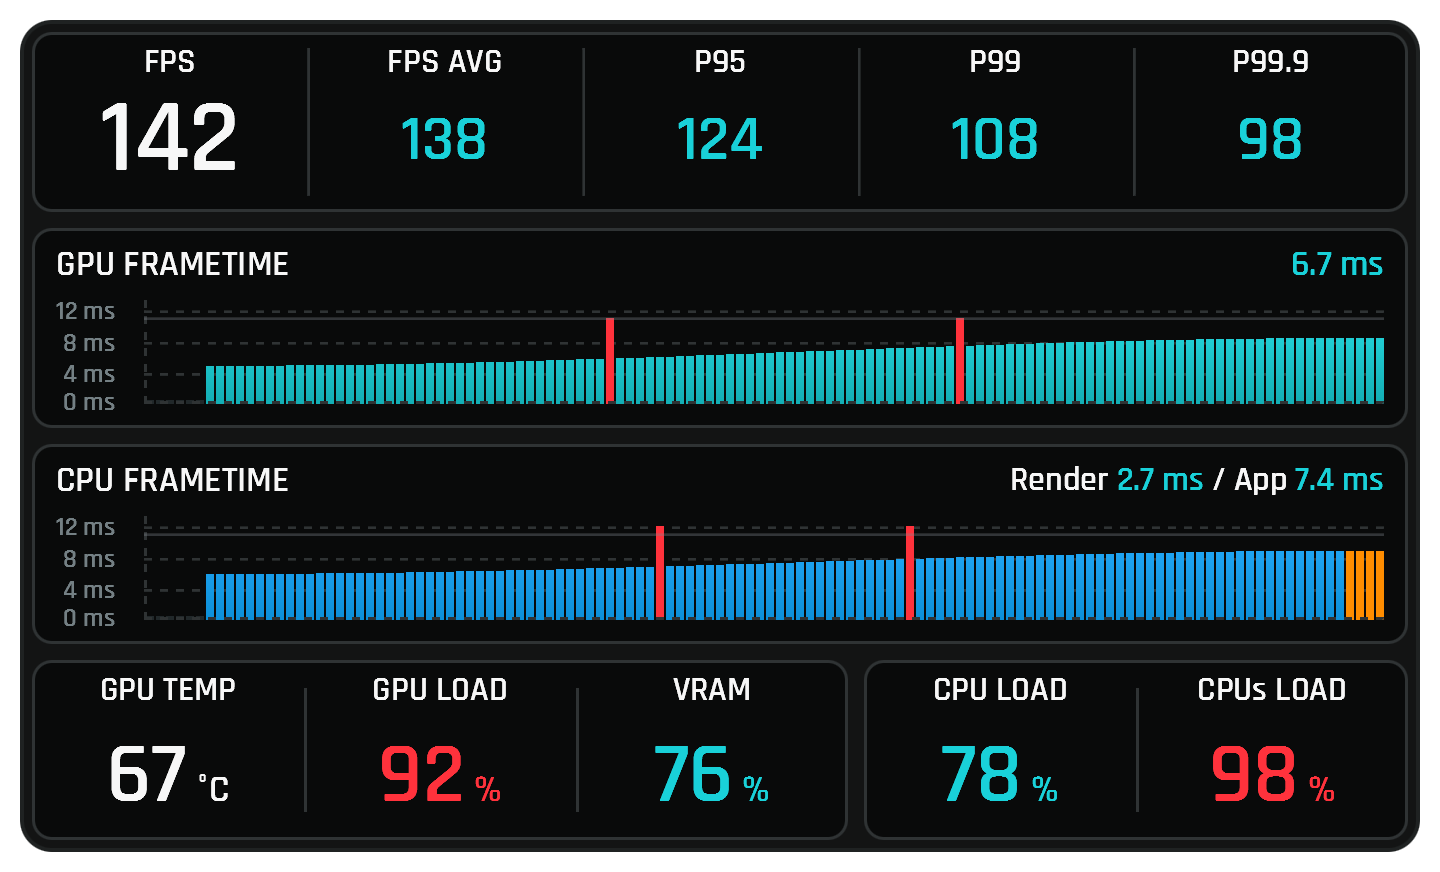
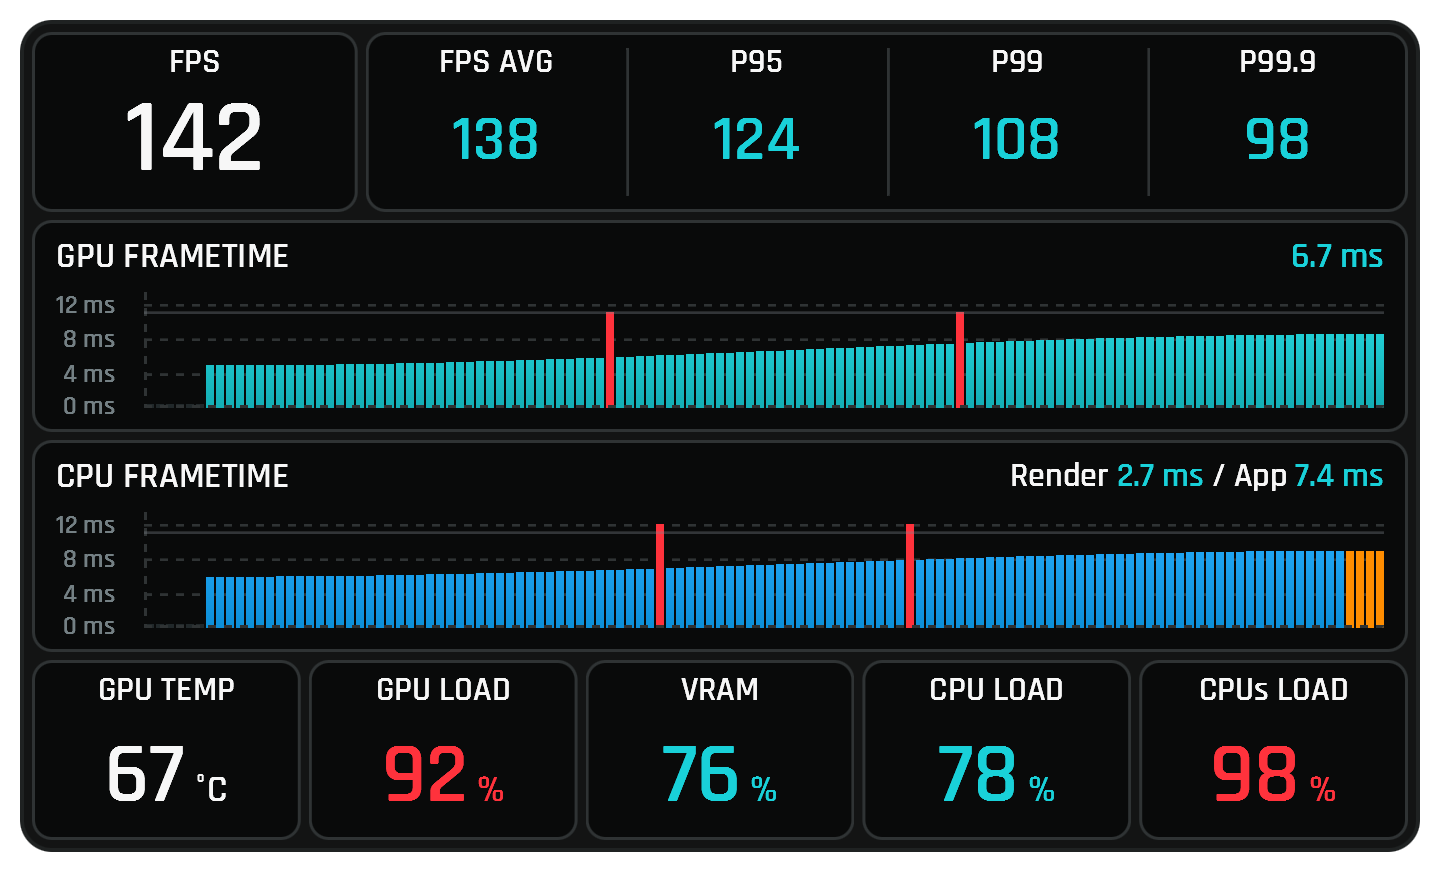
feat: split header and footer into separate framed boxes (#67)
* feat: split header and footer into separate framed boxes

Match the reference framing: give the FPS hero number its own framed box,
separated from the AVG/P95/P99/P99.9 percentile box, and break the
footer's two multi-cell panels (GPU 3 + CPU 2) into five individually
framed cells. Boxes are divided by kSectionGap (the same gap the
frametime panels use vertically); the percentile box keeps its 3 internal
separators, the footer drops its internal separators entirely.

drawHeaderBar now paints two panel backgrounds (FPS box 1.25 stat-cells
wide + the percentile box) instead of one 5-cell bar. drawBottomPanel
becomes drawBottomCell (one framed cell) and drawChrome lays the five out
in a loop. Vertical geometry (kHeaderHeight / kFrametimeHeight /
kBottomHeight / kSectionGap) is unchanged, so the histogram bars stay
aligned. Drops the now-dead kBottomSepInsetY and the <initializer_list>
include.

The baked overlay-snapshot golden will diverge by design; regenerate it
via the update-overlay-snapshot workflow after visual review.

* fix: tighten inter-box gaps to match the outer frame padding

kSectionGap 8 -> 4 px so every gap between framed boxes (header FPS|stats,
the five footer cells, and the vertical band gaps) equals the outer
frame's 4 px inner padding (the +4 in kInnerL/T). The 12 px reclaimed
from the three vertical gaps is absorbed by the two frametime panels
(kFrametimeHeight 100 -> 106), so the vertical budget still sums to kTexH
[…]

diff --git a/openxr-api-layer/utils/overlay_renderer.cpp b/openxr-api-layer/utils/overlay_renderer.cpp
@@ -49,7 +49,6 @@
 #include <cmath>
 #include <cstring>     // std::memcpy for constant-buffer uploads
 #include <cwchar>      // std::wcslen for the wide-literal degree-symbol path
-#include <initializer_list>  // drawBottomPanel takes a cell descriptor list
 #include <string>
 #include <vector>
 
@@ -142,11 +141,11 @@ namespace openxr_api_layer::detail {
         //   kFrameStroke         (2)
         //   inner padding        (4)   ← see kInnerT below
         //   kHeaderHeight       (90)
-        //   kSectionGap          (8)
-        //   kFrametimeHeight   (100) — GPU panel
-        //   kSectionGap          (8)
-        //   kFrametimeHeight   (100) — CPU panel
-        //   kSectionGap          (8)
+        //   kSectionGap          (4)
+        //   kFrametimeHeight   (106) — GPU panel
+        //   kSectionGap          (4)
+        //   kFrametimeHeight   (106) — CPU panel
+        //   kSectionGap          (4)
         //   kBottomHeight       (90)
         //   inner padding        (4)
         //   kFrameStroke         (2)
@@ -237,7 +236,16 @@ namespace openxr_api_layer::detail {
 
         constexpr float kOuterPad       = 10.0f;
         constexpr float kFrameStroke    = 2.0f;
-        constexpr float kSectionGap     =  8.0f;
+        constexpr float kSectionGap     =  4.0f;  // gap between every framed box; set
+                                                  // equal to the outer frame's inner
+                                                  // padding (the +4 in kInnerL/T below)
+                                                  // so the inter-box gaps and the frame-
+                                                  // to-content margin read identically.
+                                                  // The 12 px reclaimed from the old 8 px
+                                                  // (3 vertical band gaps) is absorbed by
+                                                  // the two frametime panels (see
+                                                  // kFrametimeHeight) so the budget still
+                                                  // sums to kTexH.
         constexpr float kSectionInnerPad = 12.0f;  // padding INSIDE each panel
 
         // Thin structural line width — panel borders, column separators, AND
@@ -273,15 +281,16 @@ namespace openxr_api_layer::detail {
         // plus paragraph-centring margins on both. Without the bump,
         // the FPS glyph's descender clipped at the panel bottom.
         constexpr float kHeaderHeight     = 90.0f;
-        constexpr float kFrametimeHeight  = 100.0f;  // strip height ≈ 52 px after the
-                                                      // title row (100 − 36 title − 12
+        constexpr float kFrametimeHeight  = 106.0f;  // strip height ≈ 58 px after the
+                                                      // title row (106 − 36 title − 12
                                                       // bottom pad). Bumped 90 → 100 to
-                                                      // give the left-hand ms axis room:
-                                                      // up to 5 tick labels (e.g. 0/2/4/
-                                                      // 6/8 at 144 Hz) read cleanly at
-                                                      // ~10 px spacing. The +10 per panel
-                                                      // is matched by kTexH 416 → 436 so
-                                                      // the vertical budget stays exact.
+                                                      // give the left-hand ms axis room
+                                                      // (up to 5 tick labels, e.g. 0/2/4/
+                                                      // 6/8 at 144 Hz, at ~10 px spacing),
+                                                      // then → 106 to absorb the 12 px
+                                                      // reclaimed when kSectionGap
+                                                      // tightened 8 → 4 (two panels × 6).
+                                                      // kTexH stays 436, budget exact.
         constexpr float kBottomHeight     = 90.0f;   // matches kHeaderHeight: the
                                                       // bottom TEMP/LOAD/VRAM row now
                                                       // reads at the same box height
@@ -289,7 +298,7 @@ namespace openxr_api_layer::detail {
                                                       // (22), then metric(43) centred
                                                       // in the region BELOW the label
                                                       // (the value rect is anchored at
-                                                      // labelY+22 in drawBottomPanel,
+                                                      // labelY+22 in drawBottomCell,
                                                       // not the full cell) so the
                                                       // 43-px digit stays clear of the
                                                       // caption at this reduced height.
@@ -353,13 +362,12 @@ namespace openxr_api_layer::detail {
                                                      // as part of the value rather
                                                      // than fading into the caption.
 
-        // Vertical insets for the 1-px column separator lines.
-        // Header bar uses a tighter inset (the cells are 90 px tall);
-        // bottom panel inset is larger because the panel is 130 px
-        // and the design's airier separator visual asks for more
-        // breathing room above and below.
+        // Vertical inset for the 1-px column separator lines inside the
+        // header's percentile box (the 3 dividers between AVG/P95/P99/
+        // P99.9). The footer no longer carries internal separators — each
+        // metric is its own framed box now — so only the header inset
+        // remains.
         constexpr float kHeaderSepInsetY      =  8.0f;
-        constexpr float kBottomSepInsetY      = 14.0f;
 
         // Target DXGI format for the swapchain image — also the format
         // the D2D RenderTarget paints into.
@@ -711,31 +719,40 @@ namespace openxr_api_layer::detail {
                                     cpuBreakdown,
                                     v.target_fps);
 
-                // Bottom row: 5 equal cells (GPU TEMP/LOAD/VRAM +
-                // CPU LOAD/CPUs LOAD), 60/40 split. Tier colours follow
-                // tierForUtilisation. The GPU panel leads with a TEMP
-                // cell; the CPU panel is two utilisation percentages —
-                // "CPU LOAD" (per-cycle CPU vs budget) next to "CPUs LOAD"
-                // (busiest single core). Each panel is described by its
-                // cells (see BottomCell / drawBottomPanel).
-                const float bottomCellW =
-                    (kInnerR - kInnerL - kSectionGap) / 5.0f;
-                const float gpuPanelL = kInnerL;
-                const float gpuPanelR = gpuPanelL + 3.0f * bottomCellW;
-                const float cpuPanelL = gpuPanelR + kSectionGap;
-                const float cpuPanelR = kInnerR;
+                // Bottom row: 5 individually-framed cells (was two
+                // multi-cell panels split 60/40, GPU-side + CPU-side). Each
+                // metric now gets its own framed box, all five divided by
+                // kSectionGap — the same gap the frametime panels use
+                // vertically. Order stays GPU-side first (TEMP / LOAD /
+                // VRAM) then CPU-side (CPU LOAD / CPUs LOAD). Tier colours
+                // follow tierForUtilisation; the TEMP cell stays white (no
+                // thermal tier). See BottomCell / drawBottomCell.
                 using Cell = BottomCell;
-                drawBottomPanel(gpuPanelL, bottomY,
-                                 gpuPanelR, bottomY + kBottomHeight, {
-                    Cell{L"GPU TEMP", v.gpu_temp_c,  BottomCellKind::Temp,    0.0f},
-                    Cell{L"GPU LOAD", v.gpu_util_pct, BottomCellKind::Percent, v.gpu_util_fraction},
-                    Cell{L"VRAM",     v.vram_pct,     BottomCellKind::Percent, v.vram_fraction},
-                });
-                drawBottomPanel(cpuPanelL, bottomY,
-                                 cpuPanelR, bottomY + kBottomHeight, {
+                constexpr int kBottomCellCount = 5;
+                const Cell bottomCells[kBottomCellCount] = {
+                    Cell{L"GPU TEMP",  v.gpu_temp_c,   BottomCellKind::Temp,    0.0f},
+                    Cell{L"GPU LOAD",  v.gpu_util_pct, BottomCellKind::Percent, v.gpu_util_fraction},
+                    Cell{L"VRAM",      v.vram_pct,     BottomCellKind::Percent, v.vram_fraction},
                     Cell{L"CPU LOAD",  v.cpu_util_pct, BottomCellKind::Percent, v.cpu_util_fraction},
                     Cell{L"CPUs LOAD", v.cpus_max_pct, BottomCellKind::Percent, v.cpus_max_fraction},
-                });
+                };
+                // 5 boxes + 4 inter-box gaps span the inner width.
+                const float bottomGapTotal =
+                    kSectionGap * static_cast<float>(kBottomCellCount - 1);
+                const float bottomCellW =
+                    (kInnerR - kInnerL - bottomGapTotal) /
+                    static_cast<float>(kBottomCellCount);
+                for (int i = 0; i < kBottomCellCount; ++i) {
+                    const float cellL = kInnerL +
+                        static_cast<float>(i) * (bottomCellW + kSectionGap);
+                    // Last box clamps to the inner-right edge so FP rounding
+                    // of bottomCellW can't leave a seam at the frame border.
+                    const float cellR = (i + 1 == kBottomCellCount)
+                        ? kInnerR
+                        : cellL + bottomCellW;
+                    drawBottomCell(cellL, bottomY, cellR,
+                                    bottomY + kBottomHeight, bottomCells[i]);
+                }
             }
 
             // -------- end static-tier helpers --------
@@ -748,7 +765,7 @@ namespace openxr_api_layer::detail {
             // Bahnschrift fallback) at every pixel size any IDWriteTextFormat
             // above uses. The charset is wide enough to cover everything the
             // overlay ever renders — see findValueRuns / drawChrome /
-            // drawBottomPanel for the actual call sites:
+            // drawBottomCell for the actual call sites:
             //
             //   Rajdhani upright (kFamilyLabels): ASCII 0x20..0x7E (the
             //     97-char printable range, conservatively wide so we don't
@@ -1363,48 +1380,68 @@ namespace openxr_api_layer::detail {
 
             // -------- Header bar --------------------------------------------
             //
-            // Layout: 5 cells of equal width separated by 1-px vertical
-            // bars. Each cell has a small uppercase label at the top
-            // and a big number below. The FPS cell uses the white
-            // brush; the four accent cells (AVG / P95 / P99 / P99.9)
-            // use cyan.
+            // Layout: TWO separately-framed boxes, divided by kSectionGap
+            // (the same gap the panels below use):
             //
-            // Cell width = ~688 / 5 ≈ 137 px on the 720-wide texture
-            // (kInnerR - kInnerL). Rajdhani SemiBold is a narrow grotesque,
-            // so kFontBigNumber=52 px on "142" sits comfortably inside the
-            // cell (~80-90 px). kFontTinyLabel=17 px labels stay under
-            // 50 px even for "P99.9". On systems without the bundled font
-            // we fall back to upright Bahnschrift.
+            //   ┌─────────┐   ┌──────────────────────────────────────┐
+            //   │  FPS    │   │ FPS AVG │  P95  │  P99  │   P99.9     │
+            //   │  142    │   │  138    │  124  │  108  │    98       │
+            //   └─────────┘   └──────────────────────────────────────┘
+            //    FPS box        percentile box (4 cells, 3 separators)
+            //
+            //   * FPS box   — its own panel, single cell, big white hero
+            //                 number (kFontBigNumber=52 px on "142").
+            //   * stats box — its own panel; the four percentile cells
+            //                 (AVG / P95 / P99 / P99.9) in cyan, divided
+            //                 by 3 thin vertical separators.
+            //
+            // Width split, after carving out the one inter-box gap: the
+            // FPS box is kHeaderFpsCellUnits (1.25) percentile-cells wide
+            // — a touch wider than one stat cell since it carries the hero
+            // number — and the four stat cells share the rest equally.
+            // Each cell is ~130 px on the 720-wide texture (kInnerR -
+            // kInnerL ≈ 688). Rajdhani SemiBold is a narrow grotesque, so
+            // 52 px on "142" sits comfortably inside the FPS box; the
+            // kFontTinyLabel=17 px caption stays under 50 px even for
+            // "P99.9". On systems without the bundled font we fall back to
+            // upright Bahnschrift.
             void drawHeaderBar(float l, float t,
                                 float r, float b,
                                 const OverlayDisplayValues& v) const {
-                drawPanelBg(l, t, r, b);
-
-                const float w = r - l;
-                const float cellW = w / 5.0f;
-
-                // Vertical separators between cells (4 of them), each a
-                // 1-px-wide thin rect on the chrome-shapes batch.
-                drawColumnSeparators(l, t, b, cellW, /*count=*/4,
-                                      kHeaderSepInsetY);
+                // FPS box is 1.25 stat-cells wide; the 4 stat cells take
+                // 1 unit each. Carve out the single inter-box gap first,
+                // then split the remainder into (1.25 + 4) units.
+                constexpr float kHeaderFpsCellUnits = 1.25f;
+                const float availW    = (r - l) - kSectionGap;
+                const float statCellW = availW / (kHeaderFpsCellUnits + 4.0f);
+                const float fpsR      = l + statCellW * kHeaderFpsCellUnits;
+                const float statsL    = fpsR + kSectionGap;
 
                 const float labelH = 22.0f;
                 const float labelY = t + 4.0f;
                 const float valueY = labelY + labelH;
 
-                drawHeaderCell(l + cellW * 0.0f, labelY, l + cellW * 1.0f, valueY,
+                // --- FPS box: its own framed panel, single cell ----------
+                drawPanelBg(l, t, fpsR, b);
+                drawHeaderCell(l, labelY, fpsR, valueY,
                                 L"FPS", v.fps_instant,
                                 kFmtBigNumberGpu, kColorTextWhite);
-                drawHeaderCell(l + cellW * 1.0f, labelY, l + cellW * 2.0f, valueY,
+
+                // --- Percentile box: own framed panel, 4 cells -----------
+                drawPanelBg(statsL, t, r, b);
+                // 3 vertical separators between the 4 percentile cells.
+                drawColumnSeparators(statsL, t, b, statCellW, /*count=*/3,
+                                      kHeaderSepInsetY);
+                drawHeaderCell(statsL + statCellW * 0.0f, labelY, statsL + statCellW * 1.0f, valueY,
                                 L"FPS AVG", v.fps_avg,
                                 kFmtAccentNumberGpu, kColorAccentCyan);
-                drawHeaderCell(l + cellW * 2.0f, labelY, l + cellW * 3.0f, valueY,
+                drawHeaderCell(statsL + statCellW * 1.0f, labelY, statsL + statCellW * 2.0f, valueY,
                                 L"P95", v.fps_p95,
                                 kFmtAccentNumberGpu, kColorAccentCyan);
-                drawHeaderCell(l + cellW * 3.0f, labelY, l + cellW * 4.0f, valueY,
+                drawHeaderCell(statsL + statCellW * 2.0f, labelY, statsL + statCellW * 3.0f, valueY,
                                 L"P99", v.fps_p99,
                                 kFmtAccentNumberGpu, kColorAccentCyan);
-                drawHeaderCell(l + cellW * 4.0f, labelY, l + cellW * 5.0f, valueY,
+                drawHeaderCell(statsL + statCellW * 3.0f, labelY, r, valueY,
                                 L"P99.9", v.fps_p99_9,
                                 kFmtAccentNumberGpu, kColorAccentCyan);
             }
@@ -1632,13 +1669,13 @@ namespace openxr_api_layer::detail {
                 float          fraction;  // tier input; ignored when kind == Temp
             };
 
-            // Draw equally-sized cells across [l,r] x [t,b], one per
-            // descriptor (2 for the CPU panel, 3 for the GPU panel). The
-            // panel sizes the columns, paints the separators, and styles each
-            // cell from its kind. Both callers stay declarative and a future
-            // panel can add/reorder cells without churning this signature.
-            void drawBottomPanel(float l, float t, float r, float b,
-                                  std::initializer_list<BottomCell> cells) const {
+            // Draw a single framed footer cell across [l,r] x [t,b]: its own
+            // panel background, the caption, and the kind-styled value.
+            // drawChrome sizes the box and the inter-box gaps; this helper
+            // owns everything inside one box. (Was drawBottomPanel, which
+            // grouped 2-3 cells with internal separators into one panel.)
+            void drawBottomCell(float l, float t, float r, float b,
+                                 const BottomCell& cell) const {
                 drawPanelBg(l, t, r, b);
 
                 // Tier-colour helper: same logic for LOAD, VRAM and both
@@ -1654,14 +1691,9 @@ namespace openxr_api_layer::detail {
                     return kColorAccentCyan;
                 };
 
-                const int numCols = static_cast<int>(cells.size());
-                if (numCols == 0) return;
-                const float colW = (r - l) / static_cast<float>(numCols);
-
-                // Vertical separators between cells, each a 1-px-wide
-                // thin rect on the chrome-shapes batch.
-                drawColumnSeparators(l, t, b, colW, /*count=*/numCols - 1,
-                                      kBottomSepInsetY);
+                // No internal separators: each metric is its own framed box
+                // now (drawChrome lays the five out with kSectionGap between
+                // them), so there are no columns to rule off here.
 
                 // Cell labels arrive as wide string literals in each
                 // descriptor (see the call site in paint()). VRAM is a
@@ -1763,29 +1795,23 @@ namespace openxr_api_layer::detail {
                 // question — the wide literal is exactly L"°"
                 // regardless of how MSVC parses the surrounding
                 // bytes.
-                // Lay the cells out left-to-right. The last column uses the
-                // panel's own right edge `r` (not l + colW*numCols) so FP
-                // rounding of colW never leaves a seam at the border.
-                int colIdx = 0;
-                for (const BottomCell& cell : cells) {
-                    const float cellL = l + colW * static_cast<float>(colIdx);
-                    const float cellR = (colIdx + 1 == numCols)
-                                            ? r
-                                            : l + colW * static_cast<float>(colIdx + 1);
-                    if (cell.kind == BottomCellKind::Temp) {
-                        // Wide-glyph path, white. The L" \u00B0C" escape (not a
-                        // literal degree byte) sidesteps MSVC's CP1252 source
-                        // reading \u2014 see the encoding note above.
-                        drawCell(cellL, cellR, cell.label, cell.value,
-                                  L" \u00B0C", kColorTextWhite,
-                                  /*useWideValue=*/true);
-                    } else {
-                        // Percent: ASCII " %" suffix, tier-coloured.
-                        drawCell(cellL, cellR, cell.label, cell.value,
-                                  L" %", tierColor(cell.fraction),
-                                  /*useWideValue=*/false);
-                    }
-                    ++colIdx;
+                // Single framed cell: the box spans the full [l, r]. (Was a
+                // left-to-right loop over 2-3 columns; drawChrome now owns the
+                // multi-box layout.)
+                const float cellL = l;
+                const float cellR = r;
+                if (cell.kind == BottomCellKind::Temp) {
+                    // Wide-glyph path, white. The L" \u00B0C" escape (not a
+                    // literal degree byte) sidesteps MSVC's CP1252 source
+                    // reading \u2014 see the encoding note above.
+                    drawCell(cellL, cellR, cell.label, cell.value,
+                              L" \u00B0C", kColorTextWhite,
+                              /*useWideValue=*/true);
+                } else {
+                    // Percent: ASCII " %" suffix, tier-coloured.
+                    drawCell(cellL, cellR, cell.label, cell.value,
+                              L" %", tierColor(cell.fraction),
+                              /*useWideValue=*/false);
                 }
             }
 
@@ -1837,11 +1863,12 @@ namespace openxr_api_layer::detail {
 
             // Static-tier column separators: `count` thin vertical rules
             // (kChromeLineW wide) at l + colWidth*i (i = 1..count), inset by
-            // insetY top and bottom. One home for the "thin separators across N
-            // columns" geometry shared by the header (4 fixed rules) and
-            // the bottom panels (numCols-1 rules) — and one consistent
-            // tier gate (inside the helper, matching drawPanelBg /
-            // drawChamferedRect) instead of an inline if at each call site.
+            // insetY top and bottom. Now used only by the header's percentile
+            // box (3 rules between AVG/P95/P99/P99.9); the footer cells are
+            // individually framed, so they no longer rule columns. Kept as a
+            // shared helper with one consistent tier gate (inside the helper,
+            // matching drawPanelBg / drawChamferedRect) instead of an inline
+            // if at the call site.
             void drawColumnSeparators(float l, float t, float b,
                                        float colWidth, int count,
                                        float insetY) const {
@@ -1889,7 +1916,7 @@ namespace openxr_api_layer::detail {
 
             // GPU chrome-shape renderer, stashed the same way. drawPanelBg /
             // drawChamferedRect / the column-separator loops in
-            // drawHeaderBar / drawBottomPanel append rects to its batch.
+            // drawHeaderBar / drawBottomCell append rects to its batch.
             chrome_shapes::Renderer* m_chromeShapes = nullptr;
 
             // -------- Two-tier static/dynamic paint state -----------------
@@ -1906,7 +1933,7 @@ namespace openxr_api_layer::detail {
             // Single source of truth for the STATIC structural signature:
             // any input that changes the chrome's fixed geometry or label
             // set. Today that's only whether the GPU bottom panel carries a
-            // VRAM column (drawBottomPanel shows it iff its vram value is
+            // VRAM column (drawBottomCell shows it iff its vram value is
             // non-empty; drawChrome feeds it v.vram_pct). A new optional
             // column / panel / second GPU must be folded in HERE (widen the
             // return to a bitmask if more than one independent input ever